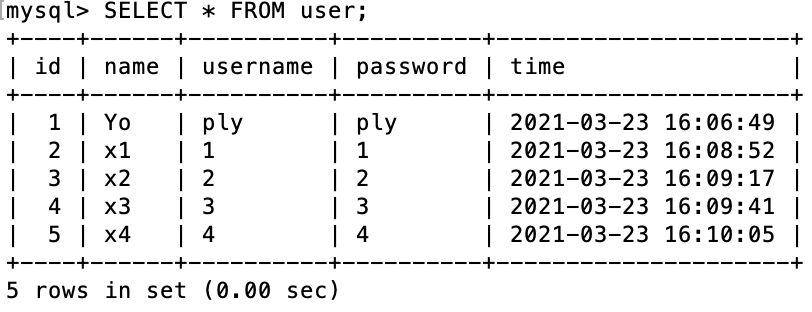
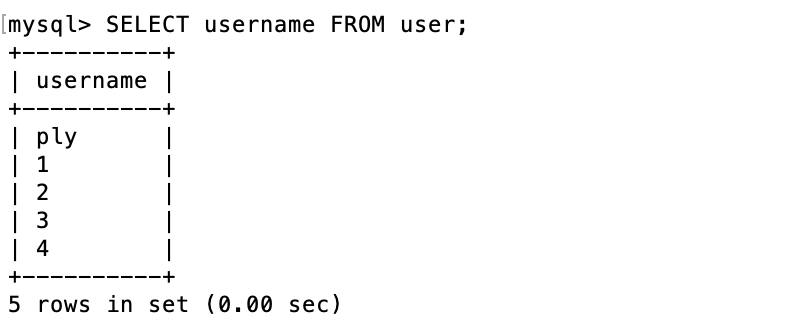
README.md

diff --git a/README.md b/README.md
@@ -28,7 +28,7 @@ Query OK, 1 row affected (0.01 sec)
 ## ● 使用 SELECT 指令取得所有在 user 資料表中的使用者資料。
 
 ```bash
-SELECT * FROM user;
+SELECT username FROM user;
 ```
 
    <img src="img/6.png" alt=""/>
@@ -74,7 +74,7 @@ SELECT * FROM user WHERE username = 'ply' AND password = 'ply';
 ## ● 使用 UPDATE 指令更新欄位 username 是 ply 的使用者資料，將資料中的 name 欄位改成【丁滿】。
 
 ```bash
-UPDATE test
+UPDATE user
 -> SET name = '丁滿'
 -> WHERE username = 'ply';
 ```
